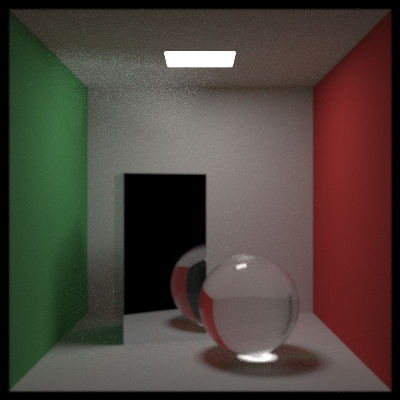
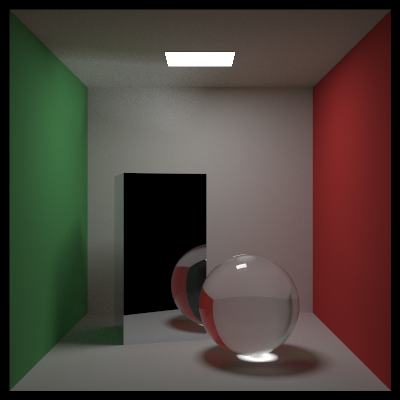
Add improved image

Changed region(s): [[0.42, 0.12, 0.6, 0.18], [0.96, 0.96, 0.99, 0.99], [0.42, 0.75, 0.45, 0.78]]

diff --git a/README.md b/README.md
@@ -80,7 +80,7 @@ A way to "trace" objects that have no analytic hit/distance function
 
 ![](images/cornell.png)
 
-_400x400px, 2000 samples / pixel, time: 25m_
+_400x400px, 20000 samples / pixel, time: ~4h_
 
 ### `scenes/light2.cr`
 
